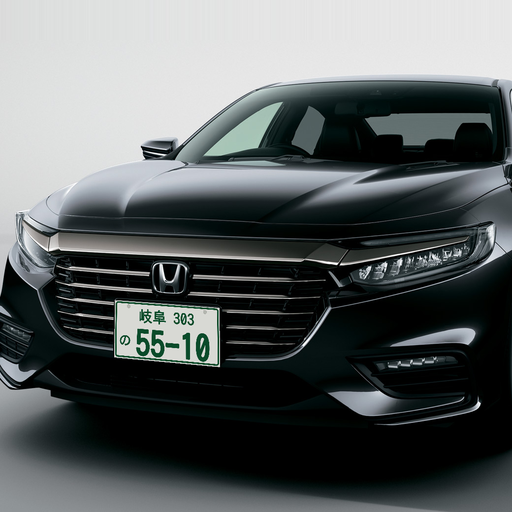
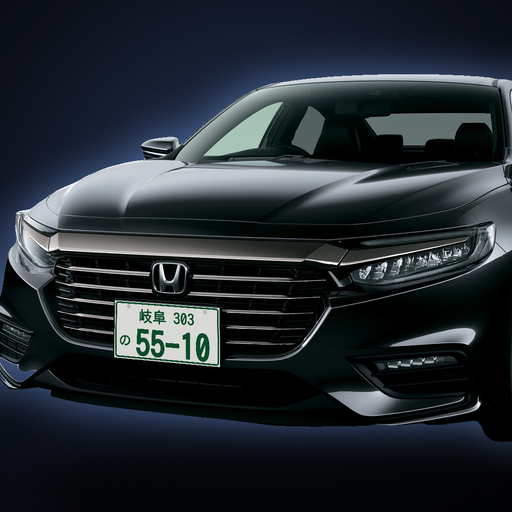
アイコンの背景を暗いネイビーにし、車の輪郭に青い光を入れて黒い車体と区別
Claude-Session: https://claude.ai/code/session_01EAbkc7XyZiB4Bay8Lf2K5R

diff --git a/index.html b/index.html
@@ -10,7 +10,7 @@
   <meta name="theme-color" content="#0b1220">
   <title>マイカー点検</title>
   <link rel="manifest" href="manifest.webmanifest">
-  <link rel="apple-touch-icon" href="icons/icon-180.png?v=4">
+  <link rel="apple-touch-icon" href="icons/icon-180.png?v=5">
   <link rel="stylesheet" href="style.css">
   <script type="importmap">
     { "imports": { "three": "./vendor/three.module.min.js", "three/addons/": "./vendor/addons/" } }

diff --git a/sw.js b/sw.js
@@ -1,6 +1,6 @@
 // Network-first cache for the app shell so the app opens offline.
 // Spreadsheet requests (other origins) are never cached here; the app keeps its own copy.
-const CACHE = 'carapp-v7';
+const CACHE = 'carapp-v8';
 const SHELL = [
   './', 'index.html', 'style.css', 'manifest.webmanifest',
   'js/app.js', 'js/car.js', 'js/body.js', 'js/sheet.js', 'js/demo.js',
